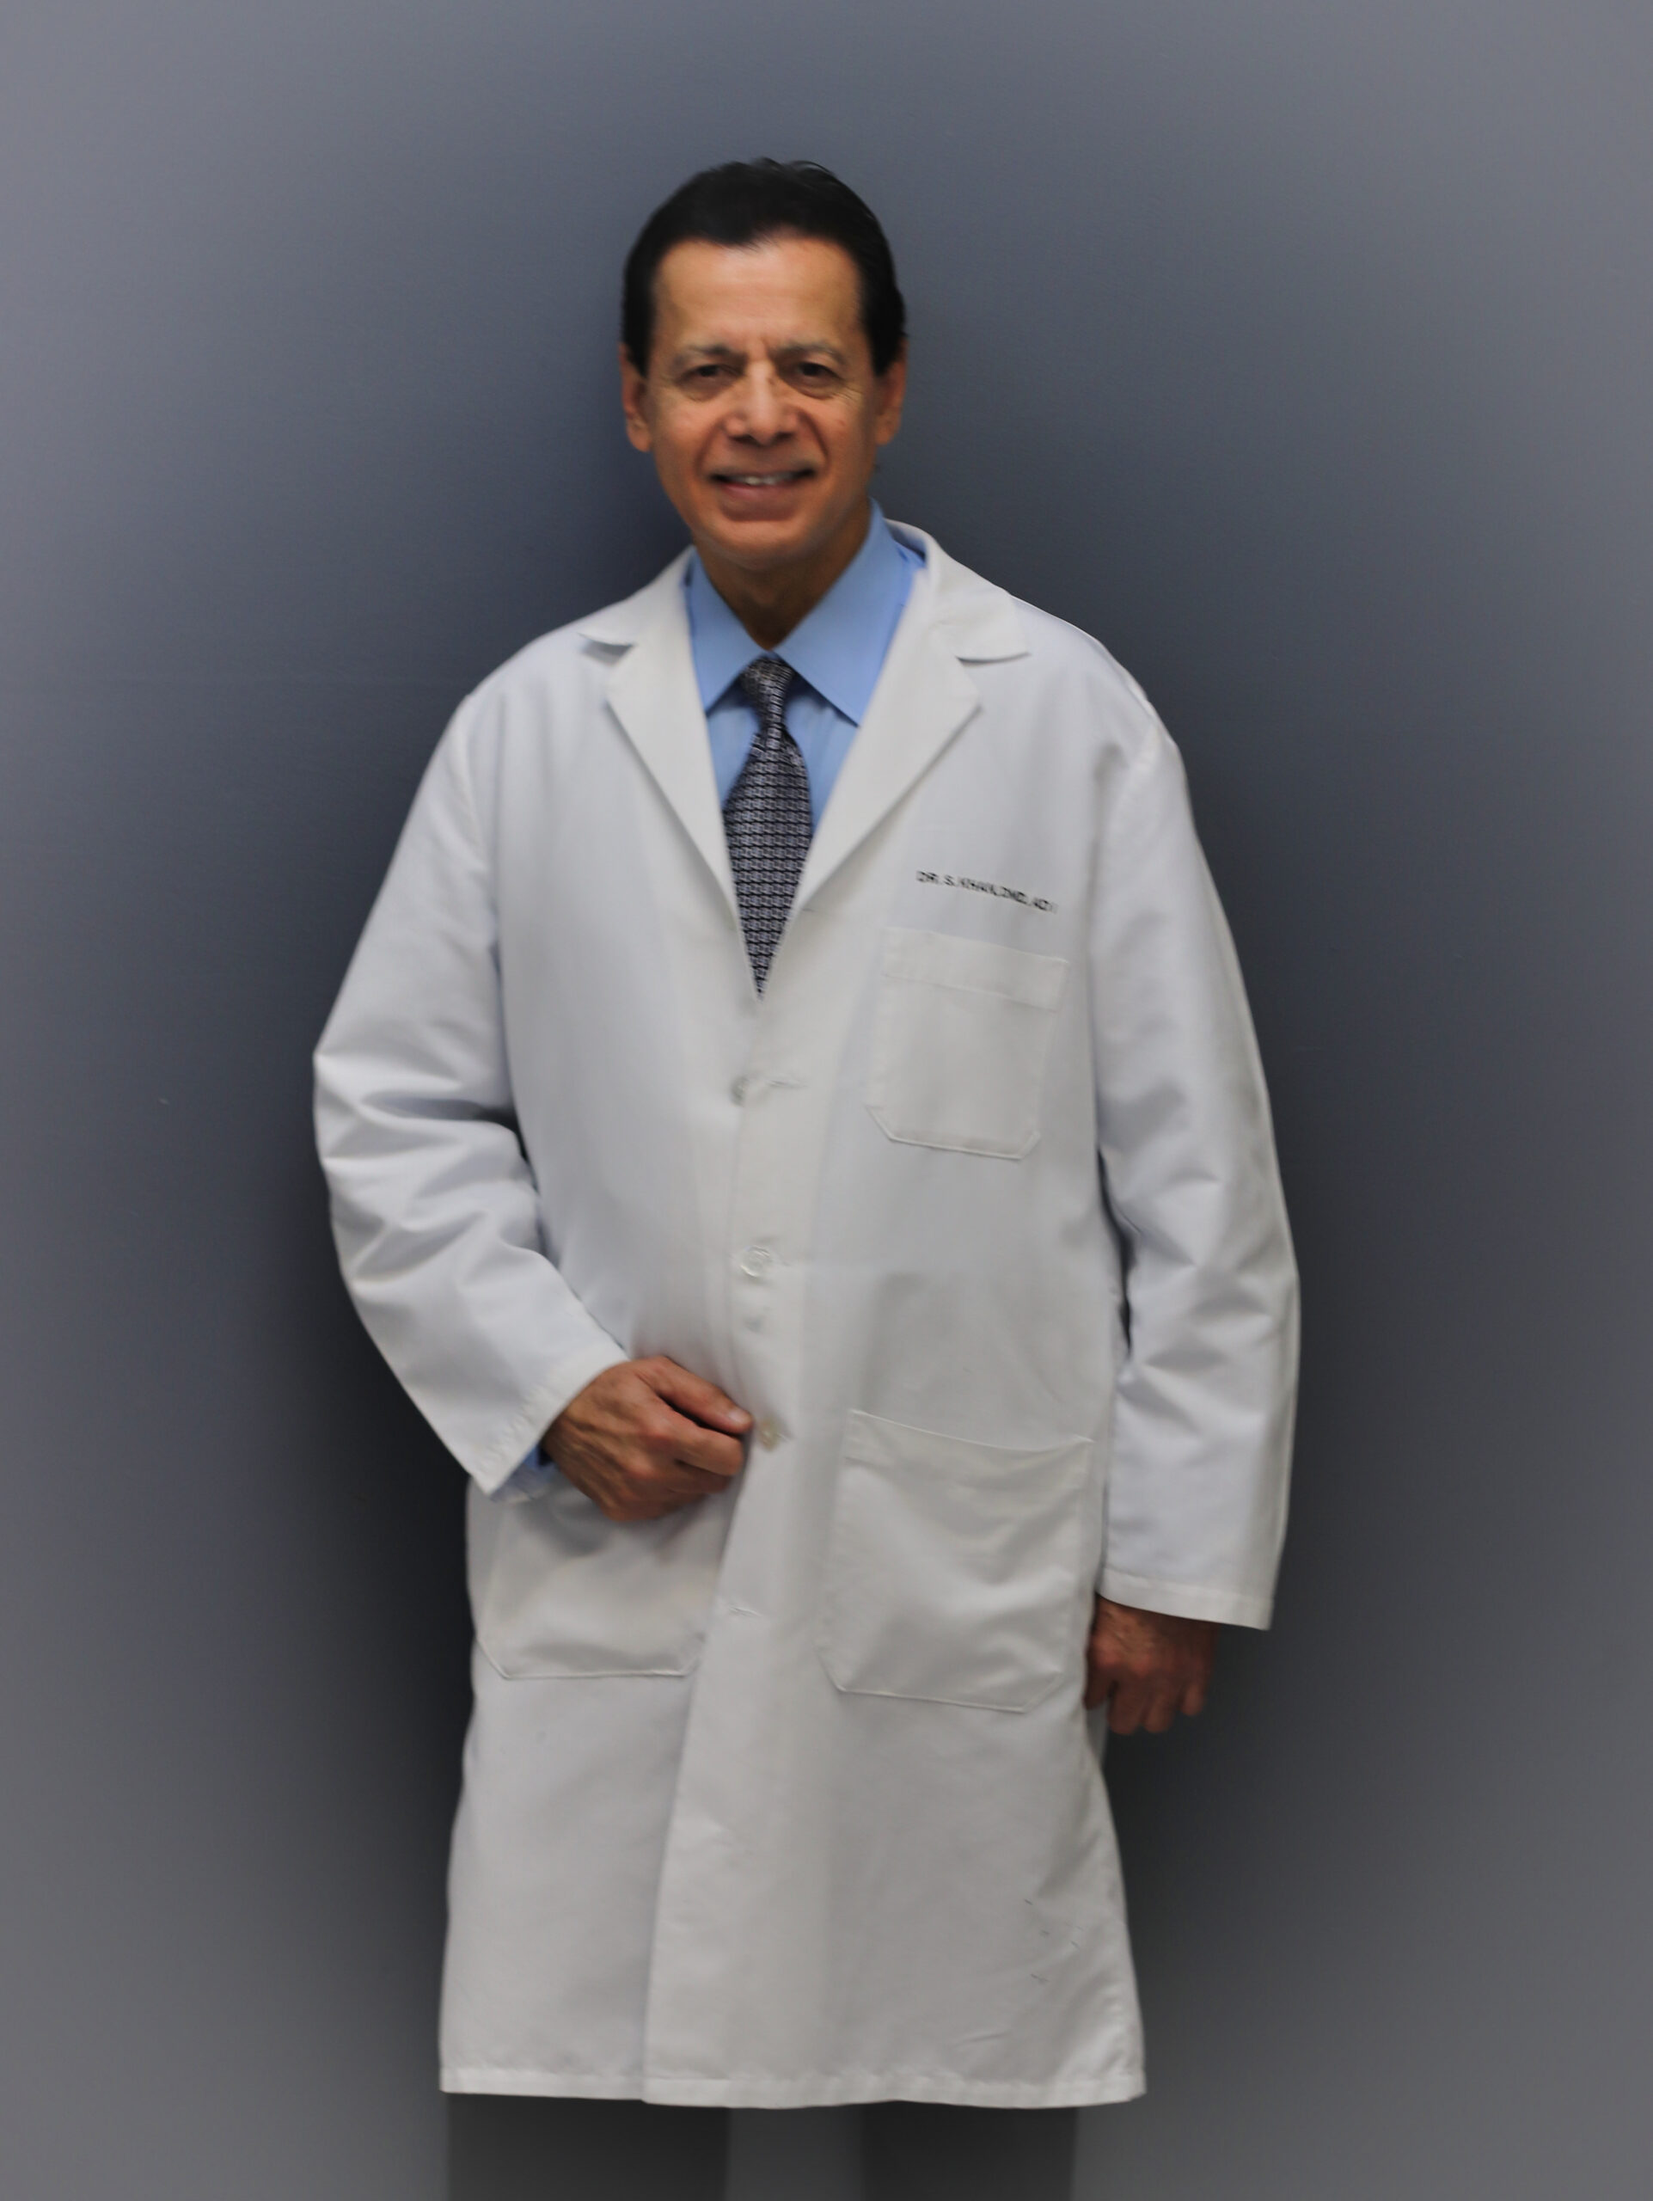
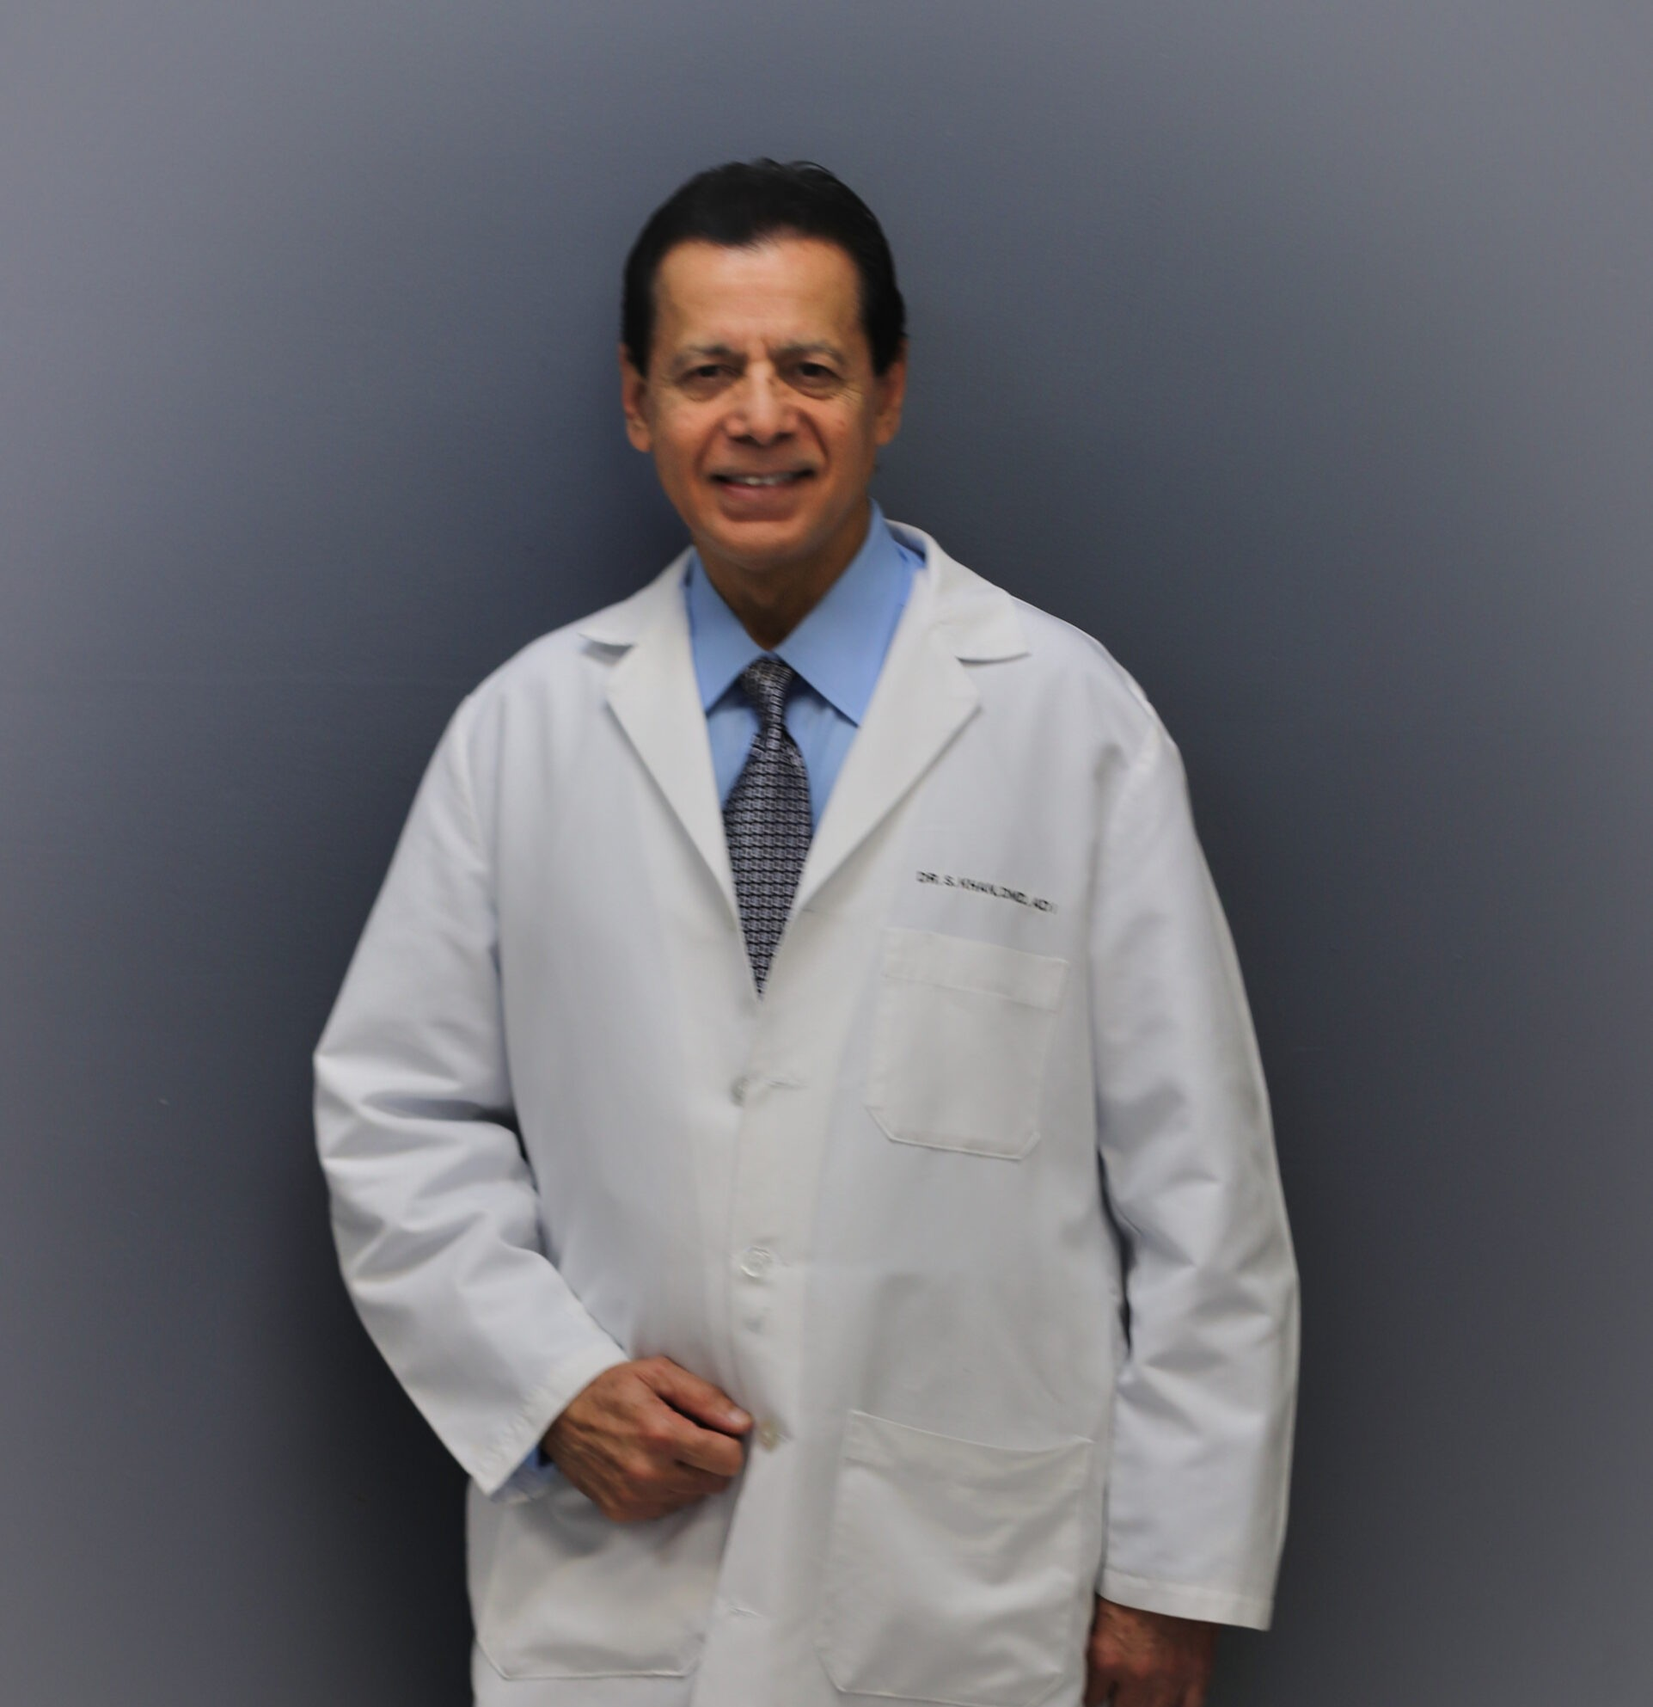
Update team photos and increase staff carousel height by 100px

Changed region(s): [[0.0936, 0.0625, 0.9048, 1.0], [0.5616, 0.7496, 0.5928, 0.7809]]

diff --git a/src/app/staff/StaffClient.tsx b/src/app/staff/StaffClient.tsx
@@ -42,7 +42,7 @@ export default function StaffClient({ staffMembers }: StaffClientProps) {
 
       {/* Staff Carousel */}
       <div className="max-w-4xl mx-auto px-4 sm:px-6 lg:px-8">
-        <div className="glass-strong p-8 sm:p-12 relative overflow-hidden h-[580px]">
+        <div className="glass-strong p-8 sm:p-12 relative overflow-hidden h-[680px]">
           <div className="flex flex-col items-center text-center">
             {/* Image */}
             <div className="relative w-48 h-48 sm:w-64 sm:h-64 rounded-full overflow-hidden border-4 border-dental-blue-100 shadow-2xl mb-8 hover:scale-[1.02] transition-transform duration-300">
